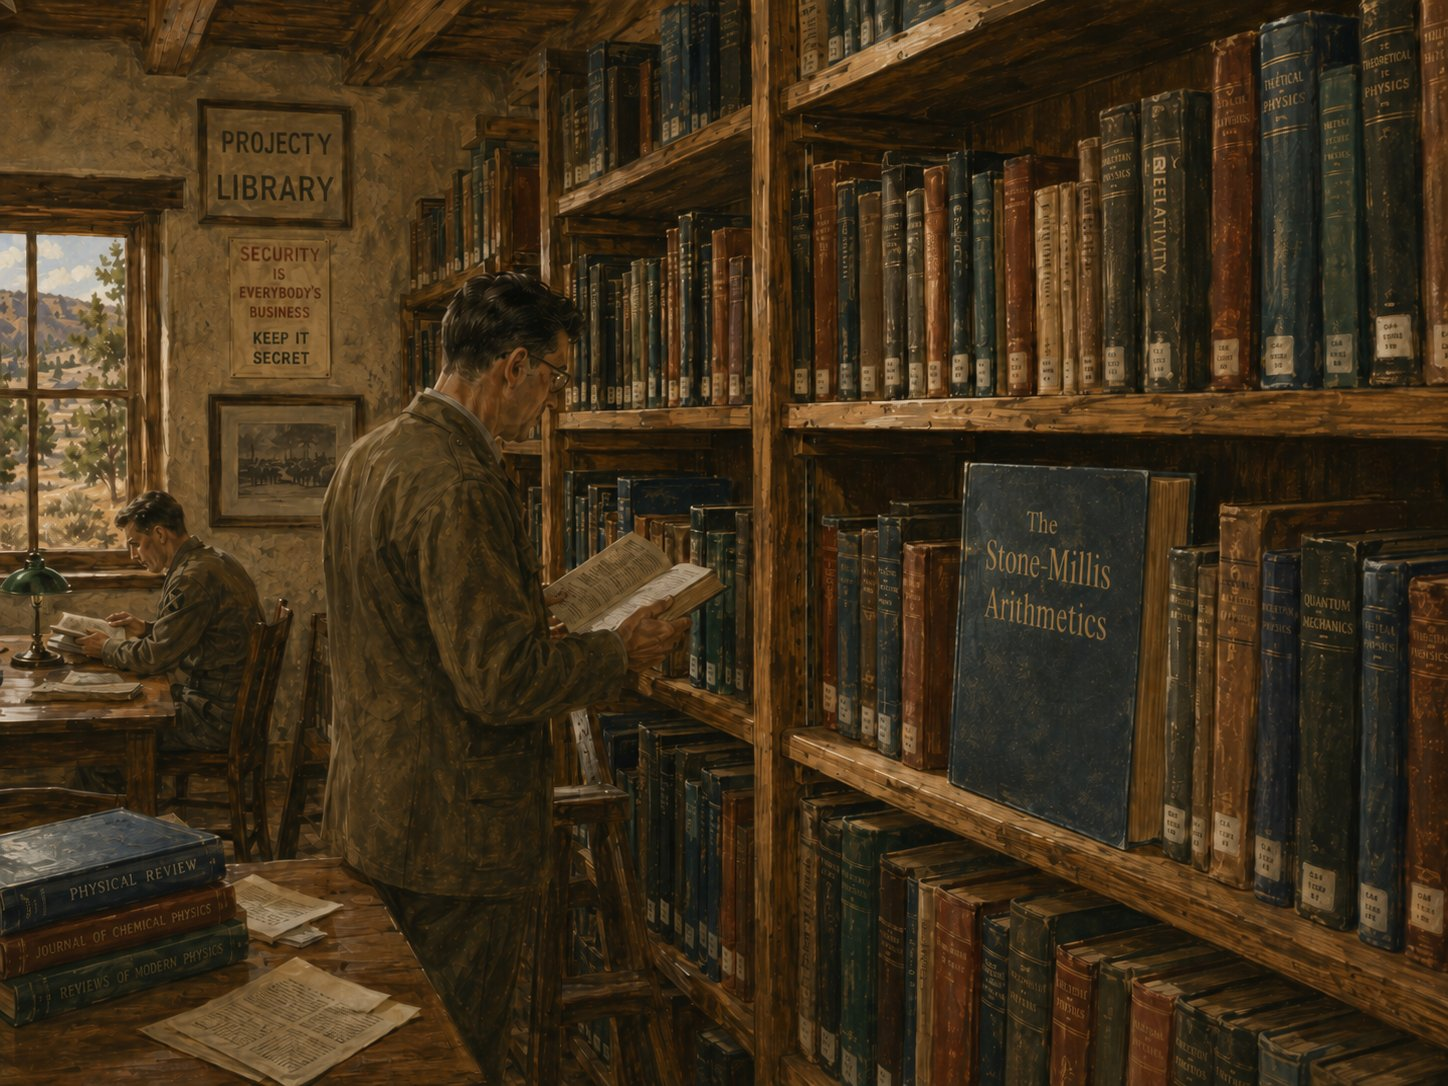
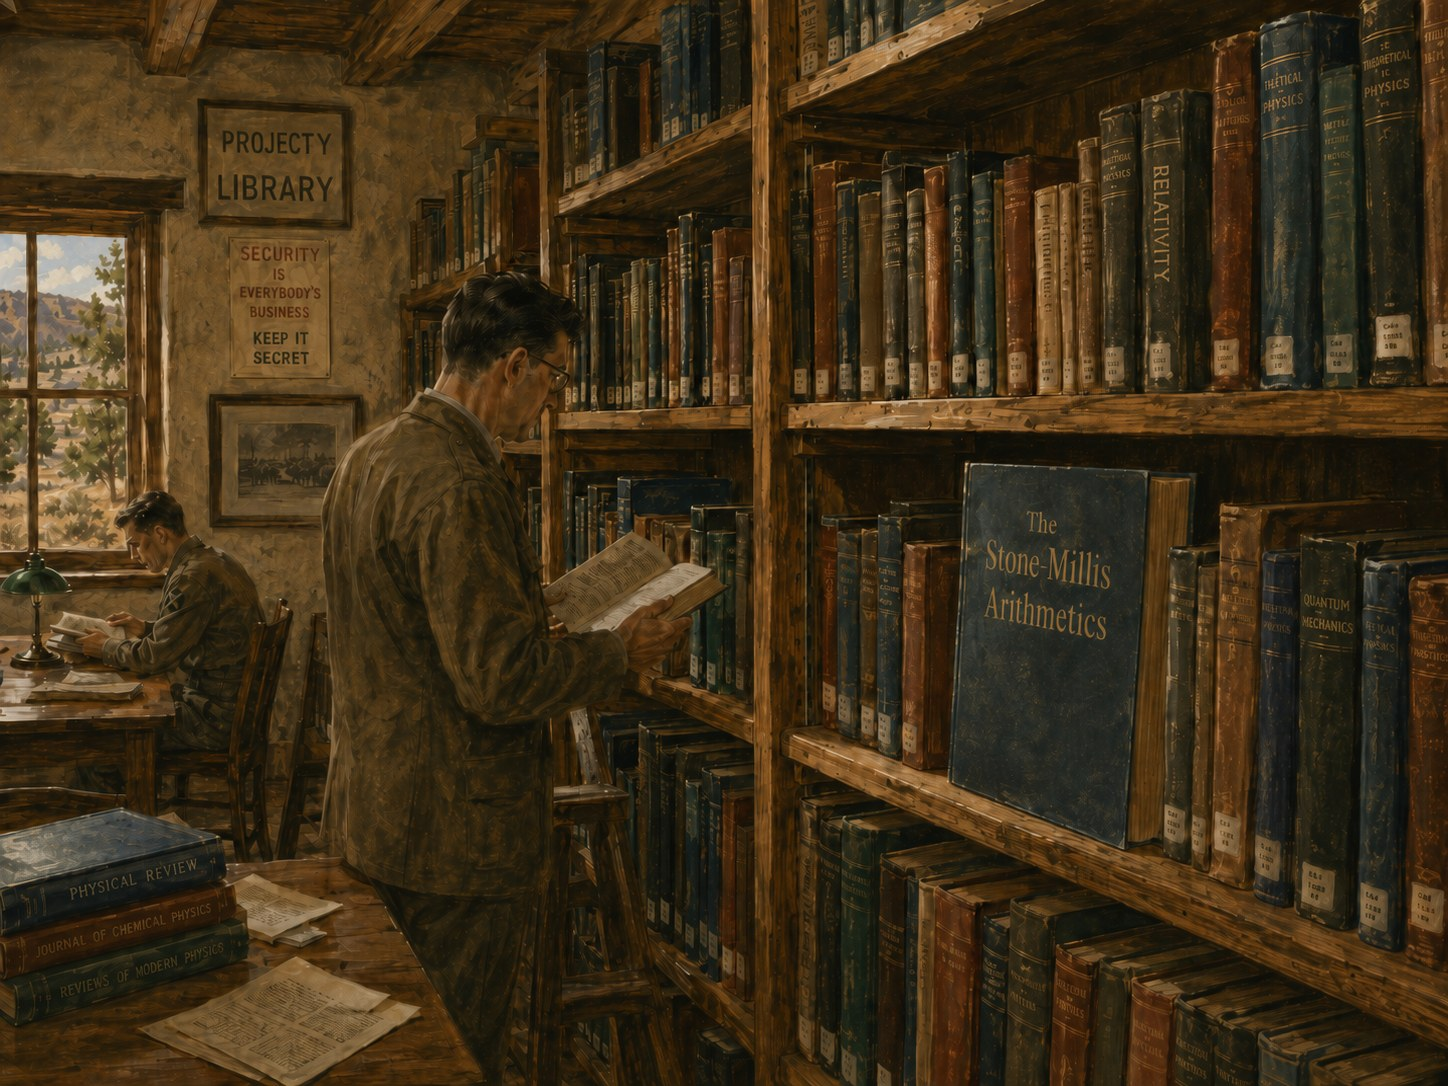
Chapter 2.5: new library slide art + reference hotspots
- Replace the library-interior slide (panel101) with the updated artwork.
- Add clickable areas over the library items, each opening a period
  reference in a new tab: the "Project Library" sign -> Project Y; the
  Physical Review / Journal of Chemical Physics / Reviews of Modern
  Physics volumes on the table -> their 1943 issues; the Relativity and
  Quantum Mechanics spines -> the Hebrew Wikipedia articles. The
  Stone-Millis Arithmetics book gets a clickable area reserved for the
  next chapter (no destination yet).
- External-reference (and the reserved book) hotspots no longer disable
  the המשך button; only navigational hotspots do, so the learner can
  still advance from a slide that merely offers links.

Claude-Session: https://claude.ai/code/session_01SiJKX9UjZksPbicW5KKNgL

diff --git a/js/data.js b/js/data.js
@@ -729,7 +729,16 @@ const SCENES = {
       },
       {
         "image": "assets/panels/panel101_chapter_2_5_library_inside.svg",
-        "read": ""
+        "read": "",
+        "hotspots": [
+          { "ariaLabel": "פרויקט Y", "url": "https://en.wikipedia.org/wiki/Project_Y", "left": 13.1, "top": 9.2, "width": 12.1, "height": 13.8 },
+          { "ariaLabel": "Physical Review", "url": "https://journals.aps.org/pr/issues/64/3-4", "left": 0.6, "top": 77.0, "width": 17.3, "height": 5.5 },
+          { "ariaLabel": "Journal of Chemical Physics", "url": "https://pubs.aip.org/aip/jcp/issue/11/1", "left": 0.7, "top": 82.7, "width": 18.1, "height": 4.4 },
+          { "ariaLabel": "Reviews of Modern Physics", "url": "https://journals.aps.org/rmp/issues/14/4", "left": 1.2, "top": 87.3, "width": 18.6, "height": 4.4 },
+          { "ariaLabel": "תורת היחסות", "url": "https://he.wikipedia.org/wiki/%D7%AA%D7%95%D7%A8%D7%AA_%D7%94%D7%99%D7%97%D7%A1%D7%95%D7%AA", "left": 81.4, "top": 8.7, "width": 2.9, "height": 18.9 },
+          { "ariaLabel": "מכניקת הקוונטים", "url": "https://he.wikipedia.org/wiki/%D7%9E%D7%9B%D7%A0%D7%99%D7%A7%D7%AA_%D7%94%D7%A7%D7%95%D7%95%D7%A0%D7%98%D7%99%D7%9D", "left": 90.1, "top": 46.0, "width": 4.1, "height": 26.7 },
+          { "ariaLabel": "הספר של סטון-מיילס", "action": "stone-millis-book", "left": 67.7, "top": 43.3, "width": 12.1, "height": 31.3 }
+        ]
       }
     ]
   }

diff --git a/js/app.js b/js/app.js
@@ -2495,7 +2495,12 @@
     const imageSrc = `${panelImage}?r=${state.replayNonce}`;
     const year = Object.prototype.hasOwnProperty.call(panel, "year") ? panel.year : (scene.year || "");
     const imageStageClass = year ? "image-stage" : "image-stage image-stage-no-year";
-    const nextDisabled = panelHotspots(panel).length ? "disabled" : "";
+    // A "navigational" hotspot (e.g. the return-to-Nand panel) IS the way
+    // forward, so it disables the plain המשך button. Hotspots that merely open
+    // an external reference, or the reserved Stone-Millis book, do not — the
+    // learner still advances normally.
+    const blockingHotspots = panelHotspots(panel).filter((h) => !h.url && h.action !== "stone-millis-book");
+    const nextDisabled = blockingHotspots.length ? "disabled" : "";
     const skipDisabled = isSkipDisabled() ? "disabled" : "";
 
     app.innerHTML = `

diff --git a/index.html b/index.html
@@ -10,7 +10,7 @@
 </head>
 <body>
   <div id="app" class="app"></div>
-  <script src="js/data.js?v=v40-nand-1" defer></script>
+  <script src="js/data.js?v=v41-hotspots-1" defer></script>
   <script src="js/app-data.js?v=v62-nand-1" defer></script>
   <script src="js/component-model.js?v=v42-splitter-wiring-1" defer></script>
   <script src="js/board-geometry.js?v=v48-bus-tasks-4" defer></script>
@@ -27,7 +27,7 @@
   <script src="js/accident-observation.js?v=modularize-step11-1" defer></script>
   <script src="js/workspace-navigation.js?v=modularize-step16-1" defer></script>
   <script src="js/solution-workspaces.js?v=v63-multibit-2" defer></script>
-  <script src="js/app.js?v=v104-nand-1" defer></script>
+  <script src="js/app.js?v=v105-hotspots-1" defer></script>
   <script src="js/warehouse-hotspots.js?v=v36-nexttasks-1" defer></script>
 </body>
 </html>